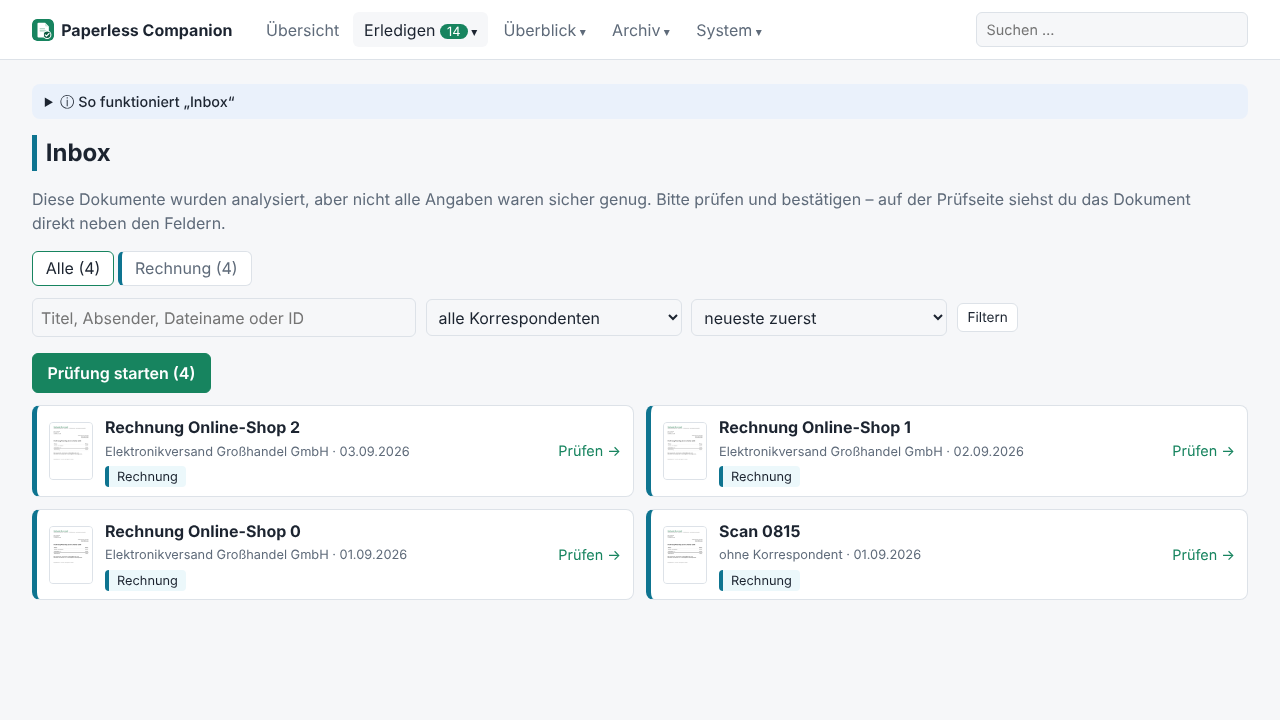
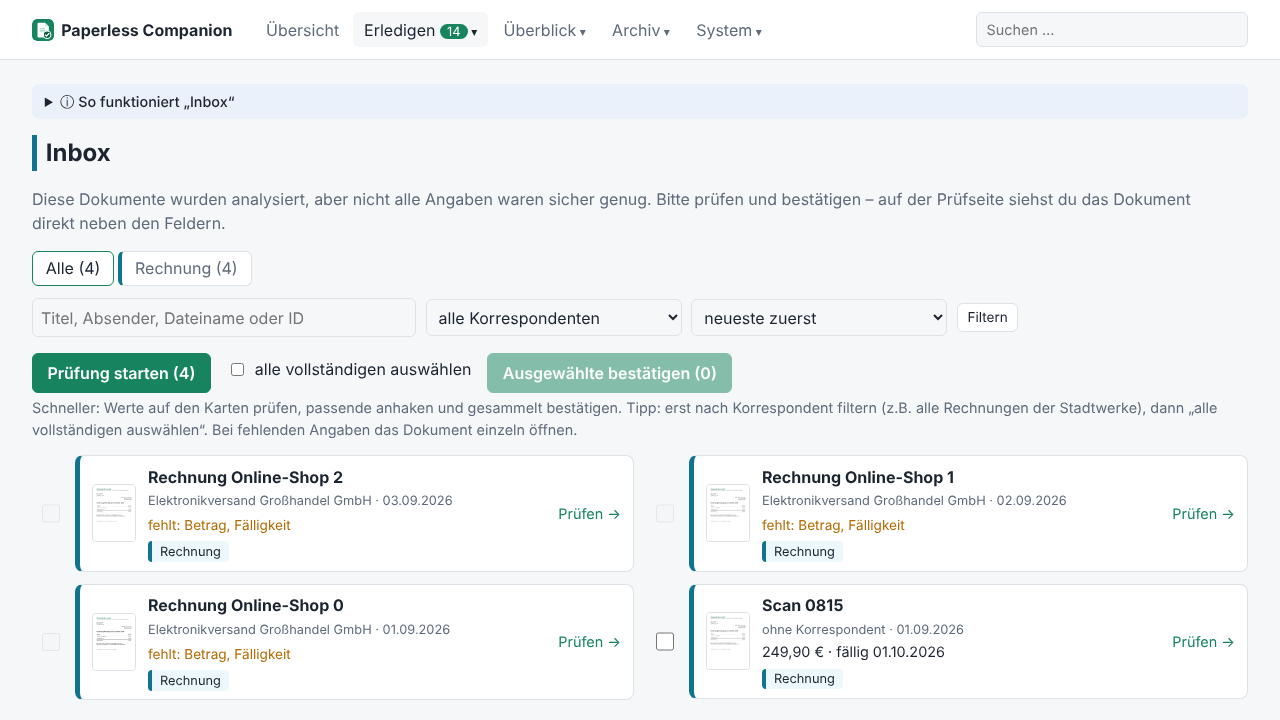
Zugeordnete Buchungen nicht doppelt verwenden; Inbox: Sammelbestätigung
- Eine Buchung, die schon einem Dokument gehört (Abgleich, Inbox-Vorbelegung, Belegseite), wird anderen Rechnungen
  nicht mehr vorgeschlagen; in der Firefly-Suche steht sie eingeklappt mit „gehört zu …“
- Inbox-Karten zeigen die erkannten Werte (Betrag, Fälligkeit, Anbieter …) und was fehlt
- Vollständige Dokumente auswählen („alle vollständigen“) und gesammelt bestätigen
- Screenshots aktualisiert

Claude-Session: https://claude.ai/code/session_01GZFJmjHzpJwZEudqzSRrzQ

diff --git a/app/templates/inbox.html b/app/templates/inbox.html
@@ -31,21 +31,58 @@
 {% endif %}
 
 {% if docs %}
-<div class="actions"><a class="button primary" href="/documents/{{ docs[0].id }}">Prüfung starten ({{ docs|length }})</a>
-  {% if docs|length < total %}<small class="muted">„Bestätigen &amp; nächstes“ bleibt in dieser Auswahl.</small>{% endif %}</div>
+<form method="post" action="/inbox/confirm" id="quick-form">
+<div class="actions quick-bar">
+  <a class="button primary" href="/documents/{{ docs[0].id }}">Prüfung starten ({{ docs|length }})</a>
+  <span class="quick-tools">
+    <label class="check"><input type="checkbox" id="pick-all" onchange="pickAll(this.checked)"> alle vollständigen auswählen</label>
+    <button type="submit" class="primary" id="quick-go" disabled
+      onclick="return confirm('Ausgewählte Dokumente mit den angezeigten Werten bestätigen? Nach Paperless geht dabei nichts – das überträgst du wie gewohnt später.')">Ausgewählte bestätigen (<span id="pick-n">0</span>)</button>
+  </span>
+  {% if docs|length < total %}<small class="muted">„Bestätigen &amp; nächstes“ bleibt in dieser Auswahl.</small>{% endif %}
+</div>
+<p class="muted quick-hint">Schneller: Werte auf den Karten prüfen, passende anhaken und gesammelt bestätigen. Tipp: erst nach Korrespondent filtern
+  (z.B. alle Rechnungen der Stadtwerke), dann „alle vollständigen auswählen“. Bei fehlenden Angaben das Dokument einzeln öffnen.</p>
 <div class="doc-cards">
   {% for doc in docs %}
-  <a class="doc-card k-{{ doc.kind }}" href="/documents/{{ doc.id }}">
-    <img class="thumb" src="/documents/{{ doc.id }}/preview?kind=thumb" alt="" loading="lazy">
-    <span class="doc-card-body">
-      <strong>{{ doc.title or ('#' ~ doc.id) }}</strong>
-      <span class="doc-meta">{{ doc.correspondent or 'ohne Korrespondent' }} · {{ doc.created|d }}</span>
-      <span><span class="kind-pill">{{ KINDS[doc.kind] }}</span></span>
-    </span>
-    <span class="doc-card-go" aria-hidden="true">Prüfen →</span>
-  </a>
+  {% set q = quick.get(doc.id) %}
+  <div class="inbox-item">
+    <label class="pick" title="{{ 'Fehlt: ' ~ q[1]|join(', ') if q and q[1] else 'Zum Bestätigen auswählen' }}">
+      <input type="checkbox" name="ids" value="{{ doc.id }}" {{ 'disabled' if not q or q[1] else 'data-ready' }} onchange="pickCount()"></label>
+    <a class="doc-card k-{{ doc.kind }}" href="/documents/{{ doc.id }}">
+      <img class="thumb" src="/documents/{{ doc.id }}/preview?kind=thumb" alt="" loading="lazy">
+      <span class="doc-card-body">
+        <strong>{{ doc.title or ('#' ~ doc.id) }}</strong>
+        <span class="doc-meta">{{ doc.correspondent or 'ohne Korrespondent' }} · {{ doc.created|d }}</span>
+        {% if q %}<span class="quick-vals">
+          {%- set parts = [] %}
+          {%- for name, label in QUICK_FIELDS.get(doc.kind, []) if q[0].get(name) is not none and q[0].get(name) != '' %}
+            {%- set v = q[0][name] %}
+            {%- set shown = v|d if v is not string and v.year is defined else (v|eur if v is number and name not in ('months',) else v) %}
+            {%- set _ = parts.append((label ~ ' ' if label else '') ~ shown) %}
+          {%- endfor %}
+          {{ parts|join(' · ') }}</span>
+        {% if q[1] %}<span class="quick-missing">fehlt: {{ q[1]|join(', ') }}</span>{% endif %}{% endif %}
+        <span><span class="kind-pill">{{ KINDS[doc.kind] }}</span></span>
+      </span>
+      <span class="doc-card-go" aria-hidden="true">Prüfen →</span>
+    </a>
+  </div>
   {% endfor %}
 </div>
+</form>
+<script>
+function pickCount() {
+  const n = document.querySelectorAll('#quick-form input[name=ids]:checked').length;
+  document.getElementById('pick-n').textContent = n;
+  document.getElementById('quick-go').disabled = n === 0;
+}
+function pickAll(on) {
+  document.querySelectorAll('#quick-form input[name=ids][data-ready]').forEach((c) => { c.checked = on; });
+  pickCount();
+}
+pickCount();
+</script>
 {% elif total %}
 <p class="empty">Kein Dokument passt zum Filter. <a href="/inbox?reset=1">Filter zurücksetzen</a> ({{ total }} in der Inbox)</p>
 {% else %}

diff --git a/app/templates/_firefly_search.html b/app/templates/_firefly_search.html
@@ -7,7 +7,7 @@
       {% if tx.description %}<small class="muted">– „{{ tx.description }}“</small>{% endif %}
       <span class="sim-reasons">{% for r in f.reasons %}<span class="pill">{{ r }}</span>{% endfor %}
         {%- if f.current and f.state == 'accepted' %}<span class="pill ok" title="Übernommen – mit „Werte erneut übernehmen“ kannst du Betrag, Aussteller und IBAN nochmal aus der Buchung setzen">übernommen</span>
-        {%- elif f.current %}<span class="pill warn" title="{{ 'In der Inbox vorbelegt – wird beim Bestätigen gespeichert' if f.state == 'prefilled' else 'Nur vorgeschlagen, noch nicht übernommen' }}">{{ 'vorbelegt' if f.state == 'prefilled' else 'vorgeschlagen' }}</span>{% elif f.used %}<span class="pill warn" title="Diese Buchung ist schon einem anderen Dokument zugeordnet">anderem Dokument zugeordnet</span>{% endif %}</span>
+        {%- elif f.current %}<span class="pill warn" title="{{ 'In der Inbox vorbelegt – wird beim Bestätigen gespeichert' if f.state == 'prefilled' else 'Nur vorgeschlagen, noch nicht übernommen' }}">{{ 'vorbelegt' if f.state == 'prefilled' else 'vorgeschlagen' }}</span>{% elif f.used_by %}<span class="pill warn">gehört zu <a href="/documents/{{ f.used_by.id }}" target="_blank" rel="noopener">{{ f.used_by.title }}</a></span>{% endif %}</span>
     </div>
     <div class="ff-actions">
       {{ txlinks(tx.group_id, tx.date) }}
@@ -31,8 +31,10 @@
     </div>
   </li>
 {% endmacro %}
-{% set fits = found|selectattr('amount_ok')|list + found|rejectattr('amount_ok')|selectattr('current')|list %}
-{% set others = found|rejectattr('amount_ok')|rejectattr('current')|list %}
+{% set taken = found|selectattr('used')|rejectattr('current')|list %}
+{% set free = found|rejectattr('used')|list + found|selectattr('used')|selectattr('current')|list %}
+{% set fits = free|selectattr('amount_ok')|list + free|rejectattr('amount_ok')|selectattr('current')|list %}
+{% set others = free|rejectattr('amount_ok')|rejectattr('current')|list %}
 {% if found %}
 {% if fits %}
 <p class="muted"><small>{{ fits|length }} Buchung{{ 'en' if fits|length != 1 }} vom {{ start|d }} bis {{ end|d }}{% if amount is not none %} mit passendem Betrag (±5 %){% endif %}, beste Treffer zuerst.</small></p>
@@ -47,6 +49,14 @@
   <summary>{{ others|length }} weitere Buchung{{ 'en' if others|length != 1 }} mit anderem Betrag (Empfänger, Rechnungsnr. oder IBAN passt) – z.B. für Teilzahlungen</summary>
   <ul class="ff-list">
     {% for f in others %}{{ ff_item(f) }}{% endfor %}
+  </ul>
+</details>
+{% endif %}
+{% if taken %}
+<details class="ff-others ff-taken">
+  <summary>{{ taken|length }} Buchung{{ 'en' if taken|length != 1 }} schon einem anderen Dokument zugeordnet – nur falls dort falsch zugeordnet</summary>
+  <ul class="ff-list">
+    {% for f in taken %}{{ ff_item(f) }}{% endfor %}
   </ul>
 </details>
 {% endif %}

diff --git a/app/static/style.css b/app/static/style.css
@@ -800,3 +800,21 @@ body.docview-open { overflow: hidden; }
   .two-up > .card { margin: 0; }
   table.list select { max-width: 22rem; }
 }
+
+/* Firefly-Suche: eingeklappte Gruppen (anderer Betrag, schon zugeordnet) */
+.ff-others { margin-top: .6rem; }
+.ff-others > summary { cursor: pointer; color: var(--muted); font-size: .9rem; }
+.ff-taken .ff-item { opacity: .75; }
+
+/* Inbox: Sammelbestätigung */
+.quick-bar { display: flex; flex-wrap: wrap; gap: .5rem 1rem; align-items: center; }
+.quick-tools { display: inline-flex; flex-wrap: wrap; gap: .5rem 1rem; align-items: center; }
+.quick-hint { font-size: .9rem; margin-top: .25rem; }
+.inbox-item { display: flex; gap: .4rem; align-items: stretch; }
+.inbox-item > .doc-card { flex: 1; min-width: 0; }
+.inbox-item .pick { display: flex; align-items: center; padding: 0 .35rem; cursor: pointer; }
+.inbox-item .pick input { width: 1.15rem; height: 1.15rem; }
+.inbox-item .pick input:disabled { cursor: not-allowed; opacity: .4; }
+.quick-vals { font-size: .9rem; }
+.quick-missing { font-size: .85rem; color: var(--warn); }
+button:disabled, button:disabled:hover { opacity: .5; cursor: not-allowed; }

diff --git a/app/payments.py b/app/payments.py
@@ -68,6 +68,7 @@ def match(session: Session, transactions: list[Transaction], settings: Settings)
     ))
     existing = list(session.scalars(select(PaymentMatch)))
     used_tx = {m.tx_id for m in existing if m.state in ("accepted", "suggested")}
+    owner = used_elsewhere(session)  # auch auf der Belegseite zugeordnete Buchungen
     known_pairs = {(m.invoice_id, m.tx_id) for m in existing}
     has_suggestion = {m.invoice_id for m in existing if m.state == "suggested"}
 
@@ -77,7 +78,8 @@ def match(session: Session, transactions: list[Transaction], settings: Settings)
             continue
         scored = []
         for tx in transactions:
-            if tx.journal_id in used_tx or (inv.id, tx.journal_id) in known_pairs:
+            if tx.journal_id in used_tx or (inv.id, tx.journal_id) in known_pairs \
+                    or owner.get(tx.journal_id, inv.document_id) != inv.document_id:
                 continue
             if (result := score(inv, tx)) is not None:
                 scored.append((result[0], inv, tx, result[1]))
@@ -167,12 +169,27 @@ def score_candidate(c: Candidate, tx: Transaction) -> tuple[int, list[str]] | No
     return (points, reasons + ["Betrag aus Buchung"]) if points >= PARTIAL_MIN else None
 
 
+def used_elsewhere(session: Session, exclude_doc: int | None = None) -> dict[str, int]:
+    """Buchungen, die schon einem Dokument gehören (tx_id -> Dokument): Zahlungsabgleich (übernommen oder
+    vorgeschlagen), in der Inbox vorbelegt und auf der Belegseite zugeordnet. Eine Buchung bezahlt nur ein Dokument –
+    sie wird für andere nicht mehr vorgeschlagen."""
+    from app.models import ReceiptCheck
+
+    used: dict[str, int] = {}
+    for m in session.scalars(select(PaymentMatch).where(PaymentMatch.state.in_(("accepted", "suggested")))
+                             .options(selectinload(PaymentMatch.invoice))):
+        if m.invoice is not None:
+            used.setdefault(m.tx_id, m.invoice.document_id)
+    for doc in session.scalars(select(Document).where(Document.review_state == "pending")):
+        if (p := (doc.suggestions or {}).get("_payment")) and p.get("tx_id"):
+            used.setdefault(p["tx_id"], doc.id)
+    for row in session.scalars(select(ReceiptCheck).where(ReceiptCheck.state == "linked", ReceiptCheck.document_id.is_not(None))):
+        used.setdefault(row.tx_id, row.document_id)
+    return {tx: d for tx, d in used.items() if d != exclude_doc}
+
+
 def _used_transactions(session: Session, exclude_doc: int | None = None) -> set[str]:
-    used = {m.tx_id for m in session.scalars(select(PaymentMatch).where(PaymentMatch.state.in_(("accepted", "suggested"))))}
-    for doc in session.scalars(select(Document).where(Document.review_state == "pending", Document.kind == "invoice")):
-        if doc.id != exclude_doc and (p := (doc.suggestions or {}).get("_payment")):
-            used.add(p.get("tx_id"))
-    return used
+    return set(used_elsewhere(session, exclude_doc))
 
 
 def best_payment(c: Candidate, transactions: list[Transaction], used: set[str]):
@@ -409,18 +426,21 @@ def search(session: Session, doc: Document, client: FireflyClient, today: date, 
     incoming = doc.kind == "reimbursement"  # Erstattung: Geldeingänge statt Abbuchungen
     partial_ids: set[str] = set()
     if incoming:
-        used = reimbursements.used_transactions(session, exclude=doc.id)
+        from app.models import Reimbursement
+
+        used = {r.tx_id: r.document_id for r in session.scalars(select(Reimbursement).where(Reimbursement.tx_id.is_not(None)))
+                if r.document_id != doc.id}
         rec = doc.reimbursement
         if rec is not None and rec.tx_id:
             current, current_state = rec.tx_id, rec.tx_state or "suggested"
         else:
             current, current_state = ((doc.suggestions or {}).get("_deposit") or {}).get("tx_id"), "prefilled"
     else:
-        used = _used_transactions(session, exclude_doc=doc.id)
+        used = used_elsewhere(session, exclude_doc=doc.id)
         p = payment_for(session, doc) or {}
         current, current_state = p.get("tx_id"), p.get("state")
         partial_ids = {m.tx_id for m in partial_payments(session, doc.invoice)}
-        used -= partial_ids
+        used = {k: v for k, v in used.items() if k not in partial_ids}
     found = []
     for tx in (client.deposits if incoming else client.withdrawals)(start, min(end, today)):
         points, reasons = 0, []
@@ -439,7 +459,10 @@ def search(session: Session, doc: Document, client: FireflyClient, today: date, 
         if not reasons:
             continue
         amount_ok = amount is None or abs(tx.amount - amount) <= max(1.0, amount * 0.05)
-        found.append({"tx": tx, "score": points, "reasons": reasons, "used": tx.journal_id in used, "amount_ok": amount_ok,
+        owner_id = used.get(tx.journal_id)
+        owner_doc = session.get(Document, owner_id) if owner_id else None
+        found.append({"tx": tx, "score": points, "reasons": reasons, "used": owner_id is not None, "amount_ok": amount_ok,
+                      "used_by": {"id": owner_id, "title": owner_doc.title if owner_doc else f"#{owner_id}"} if owner_id else None,
                       "current": tx.journal_id == current or tx.journal_id in partial_ids,
                       # accepted = übernommen; suggested/prefilled = nur vorgeschlagen bzw. in der Inbox vorbelegt
                       "partial": tx.journal_id in partial_ids and len(partial_ids) > 1,

diff --git a/app/main.py b/app/main.py
@@ -272,12 +272,47 @@ def create_app(settings: Settings | None = None, start_worker: bool = True) -> F
             kind_counts[d.kind] = kind_counts.get(d.kind, 0) + 1
         correspondents = sorted({d.correspondent for d in all_pending if d.correspondent}, key=metadata.locale_key)
         active = {k: v for k, v in flt.items() if v}
-        response = render(request, "inbox.html", docs=docs, msg=msg, flt=flt, kind_counts=kind_counts,
+        quick = {d.id: quick_check(d) for d in docs if d.kind in pipeline.FIELD_TYPES}
+        response = render(request, "inbox.html", docs=docs, msg=msg, flt=flt, kind_counts=kind_counts, quick=quick,
+                          QUICK_FIELDS=QUICK_FIELDS,
                           total=len(all_pending), filtered=len(without_kind), correspondents=correspondents,
                           has_unnamed=any(not d.correspondent for d in all_pending),
                           qs=lambda **kw: urlencode({k: v for k, v in {**active, **kw}.items() if v}))
         response.set_cookie(INBOX_COOKIE, urlencode(active), max_age=30 * 86400, samesite="lax")
         return response
+
+    def confirm_document(session: Session, doc: Document, values: dict) -> None:
+        """Wie „Bestätigen“ auf der Prüfseite, nur mit den angezeigten Werten (Sammelbestätigung)."""
+        learning.record_accuracy(session, doc, doc.kind, values)
+        pipeline.apply_values(session, doc, doc.kind, values)
+        pipeline.record_confirmation(doc, doc.kind, values, {}, {})
+        if doc.kind == "reimbursement":
+            reimbursements.record_confirmed(doc)
+        doc.review_state = "confirmed"
+        doc.auto_confirmed = False
+        payments.record_confirmed_payment(session, doc)
+        doc.writeback_pending = True
+
+    @app.post("/inbox/confirm")
+    async def inbox_confirm(request: Request, session: Session = Depends(get_session)):
+        form = await request.form(max_fields=MAX_FORM_FIELDS)
+        done, skipped = 0, 0
+        for raw in form.getlist("ids"):
+            doc = session.get(Document, int(raw)) if str(raw).isdigit() else None
+            if doc is None or doc.review_state != "pending" or doc.kind not in pipeline.FIELD_TYPES:
+                continue
+            values, missing = quick_check(doc)
+            if missing:
+                skipped += 1
+                continue
+            confirm_document(session, doc, values)
+            done += 1
+        if done:
+            request_worker(app)
+        msg = f"{done} Dokument{'e' if done != 1 else ''} bestätigt"
+        if skipped:
+            msg += f", {skipped} übersprungen (Angaben fehlen – bitte einzeln prüfen)"
+        return RedirectResponse(f"/inbox?msg={quote(msg)}", status_code=303)
 
     @app.get("/search")
     def search(q: str = "", session: Session = Depends(get_session)):
@@ -2084,6 +2119,38 @@ def field_badges(doc: Document, from_record: bool) -> dict:
         # in der Inbox zählen aktuelle Vorschläge aus Firefly (Formular ist damit vorbelegt)
         badges.update({k: {**v, "confirmed": False} for k, v in sugg.items() if v.get("source") == "firefly"})
     return badges
+
+
+QUICK_FIELDS = {  # was auf der Inbox-Karte angezeigt wird (Feld, Bezeichnung)
+    "invoice": [("issuer", ""), ("amount", ""), ("due_date", "fällig"), ("paid_on", "bezahlt")],
+    "contract": [("provider", ""), ("monthly_cost", "€/Monat"), ("start_date", "ab"), ("end_date", "bis")],
+    "warranty": [("product", ""), ("purchase_date", "gekauft"), ("months", "Monate")],
+    "reimbursement": [("payer", ""), ("amount", ""), ("statement_date", "vom")],
+}
+
+
+def quick_check(doc: Document) -> tuple[dict, list[str]]:
+    """Werte für die Sammelbestätigung und was dafür noch fehlt."""
+    values = pipeline.parse_values(doc.kind, form_values(doc)[0])
+    missing = []
+    if doc.kind == "invoice":
+        if values.get("amount") is None:
+            missing.append("Betrag")
+        settled = values.get("payment_method") == "debit" or values.get("status") == "paid"
+        if not settled and values.get("due_date") is None:
+            missing.append("Fälligkeit")
+    elif doc.kind == "contract":
+        if not (values.get("name") or values.get("provider")):
+            missing.append("Anbieter")
+        if values.get("start_date") is None and values.get("end_date") is None:
+            missing.append("Beginn oder Laufzeitende")
+    elif doc.kind == "warranty":
+        if values.get("purchase_date") is None:
+            missing.append("Kaufdatum")
+    elif doc.kind == "reimbursement":
+        if values.get("amount") is None:
+            missing.append("Betrag")
+    return values, missing
 
 
 def form_values(doc: Document) -> tuple[dict, bool]:

diff --git a/tests/test_web.py b/tests/test_web.py
@@ -408,3 +408,27 @@ def test_inbox_filter_and_next_stays_in_filter(client):
     r = client.post("/documents/902/confirm", data={"after": "next", "amount": "10"}, follow_redirects=False)
     assert r.headers["location"].startswith("/documents/900")
     assert "Police Hausrat" in client.get("/inbox?reset=1").text
+
+
+def test_inbox_quick_confirm(client):
+    """Sammelbestätigung: vollständige Dokumente mit den angezeigten Werten bestätigen, unvollständige überspringen."""
+    from app.models import Invoice
+
+    with session_scope() as s:
+        s.add(Document(id=910, title="Abschlag Gas", correspondent="Gaswerk", kind="invoice", tags=[], review_state="pending",
+                       extraction_state="done", created=date(2026, 10, 1),
+                       suggestions={"amount": {"value": 45.0, "confidence": 0.7, "source": "rule"},
+                                    "due_date": {"value": "2026-10-15", "confidence": 0.7, "source": "rule"},
+                                    "issuer": {"value": "Gaswerk", "confidence": 0.9, "source": "paperless"}}))
+        s.add(Document(id=911, title="Rechnung ohne Betrag", kind="invoice", tags=[], review_state="pending",
+                       extraction_state="done", created=date(2026, 10, 2), suggestions={}))
+    page = client.get("/inbox?reset=1").text
+    assert "Ausgewählte bestätigen" in page and "45,00 €" in page and "fällig 15.10.2026" in page
+    assert "fehlt: Betrag, Fälligkeit" in page
+    r = client.post("/inbox/confirm", data={"ids": ["910", "911"]})
+    assert "1 Dokument bestätigt, 1 übersprungen" in r.text
+    with session_scope() as s:
+        doc = s.get(Document, 910)
+        assert doc.review_state == "confirmed" and doc.invoice.amount == 45.0 and doc.invoice.due_date == date(2026, 10, 15)
+        assert doc.field_sources["amount"]["confirmed"] and doc.writeback_pending
+        assert s.get(Document, 911).review_state == "pending"

diff --git a/tests/test_payments.py b/tests/test_payments.py
@@ -355,3 +355,18 @@ def test_choose_and_clear_without_reload(review_client):
         assert sugg["amount"]["value"] == 79.0 and sugg["amount"]["source"] == "firefly" and "iban" not in sugg
     r = review_client.post("/documents/1/payment/clear", headers={"X-Requested-With": "fetch"})
     assert r.json()["previous"] == "2026-10-12" and r.json()["date_field"] == "paid_on" and "gelöst" in r.json()["msg"]
+
+
+def test_assigned_transaction_not_reused(db, settings):
+    """Eine auf der Belegseite (oder per Abgleich) zugeordnete Buchung wird keiner anderen Rechnung vorgeschlagen."""
+    from app.models import ReceiptCheck
+
+    with db() as s:
+        add_invoice(s, 1, 78.0, issuer="Stadtwerke")
+        add_invoice(s, 2, 78.0, issuer="Stadtwerke")
+        s.add(ReceiptCheck(tx_id="900", tx_group_id="500", tx_date=date(2026, 10, 10), amount=78.0, counterparty="Stadtwerke",
+                           state="linked", decided=True, document_id=2))
+    with db() as s:
+        payments.match(s, [tx("900", date(2026, 10, 10), 78.0, "Stadtwerke", "Abschlag")], settings)
+        assert [(m.invoice.document_id, m.tx_id) for m in s.query(PaymentMatch)] == [(2, "900")]  # nur für Dokument 2
+        assert payments.used_elsewhere(s, exclude_doc=1) == {"900": 2}
